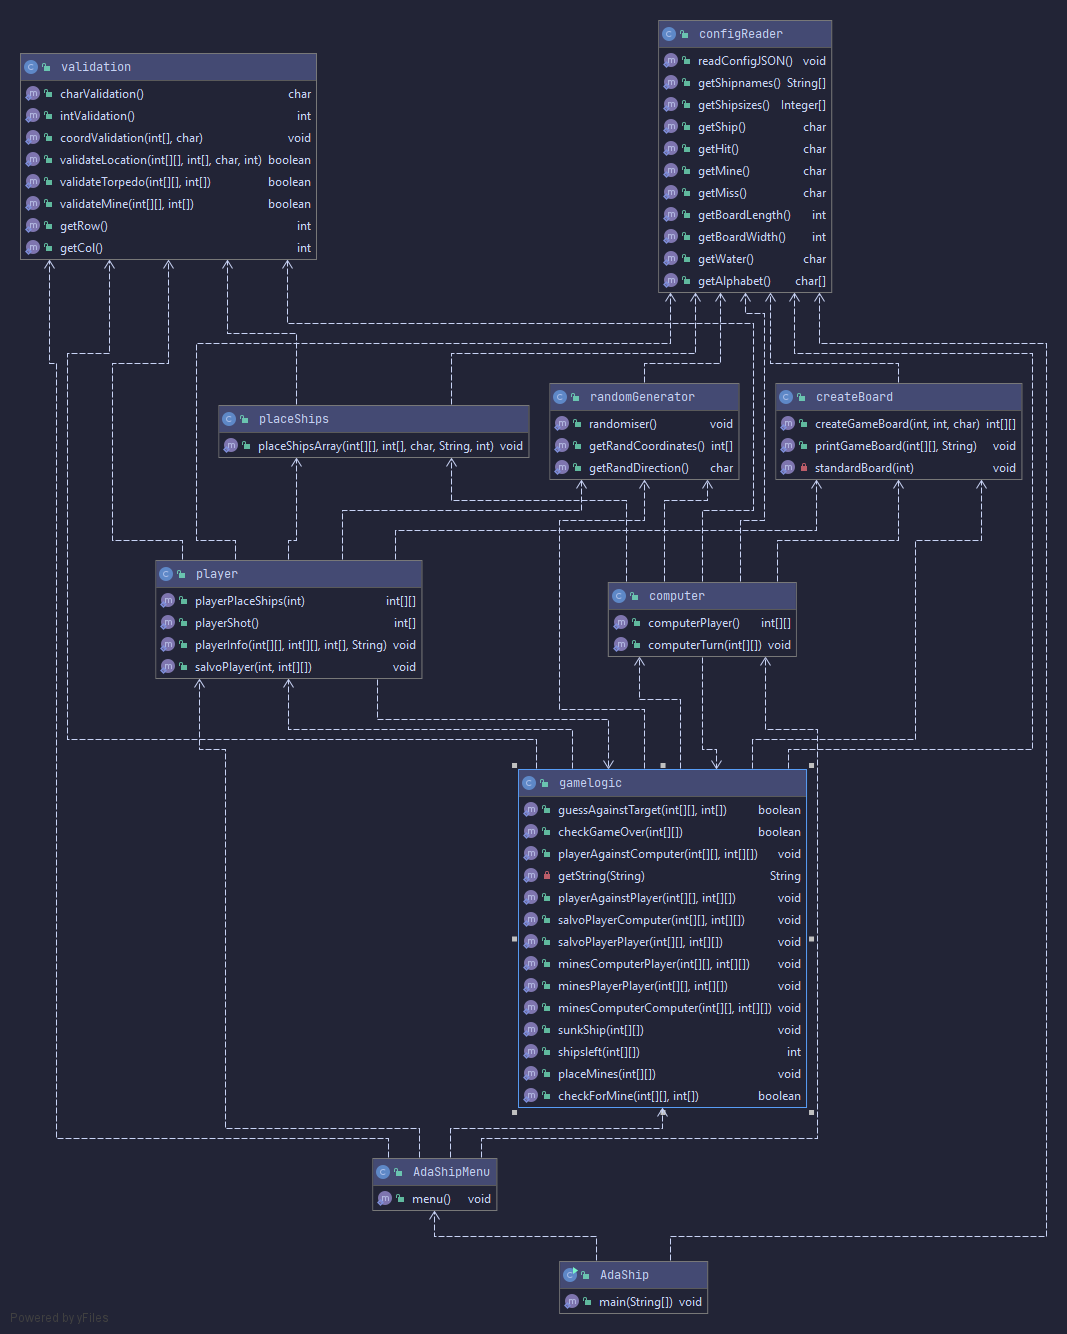
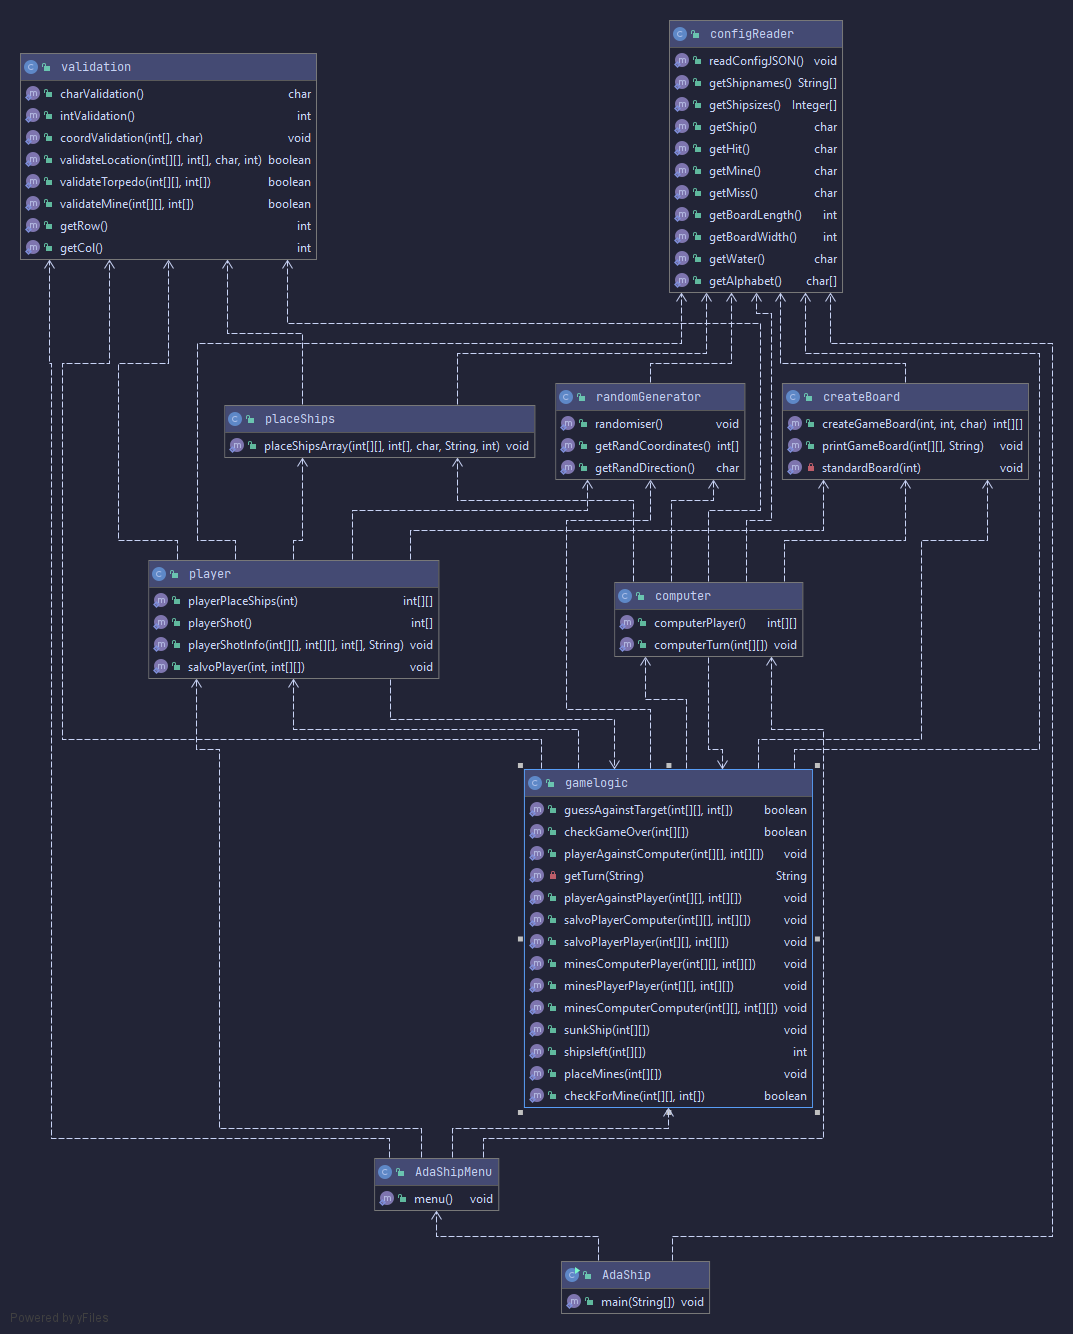
UML Changed

diff --git a/README.md b/README.md
@@ -17,7 +17,7 @@ I will be creating a system that replicates the game of Battleships. The system 
 * Two player game (hidden mines) game
 * Computer v computer (hidden mines)
 ### UML Diagram:
-<a href="https://ibb.co/KysXjQS"><img src="https://i.ibb.co/pXKxvs5/Ada-Ship-UML.png" alt="Ada-Ship-UML" border="0"></a>
+<a href="https://ibb.co/j5pSZQG"><img src="https://i.ibb.co/3sJnYjW/Ada-Ship-UML.png" alt="Ada-Ship-UML" border="0"></a>
 ### Initial working plan, overall approach, development strategy and approach to quality:
 My working plan is approach the problem by breaking down the overall problem down into smaller tasks. Each task will be organised on a Kanban board and worked on individually therefore taking an Agile approach to development. I will continuously check the quality of the code that I have written through regular code reviews with my partner, Morgan McNeil. This will help me to highlight code smells that I may not be necessarily able to see myself.
 
